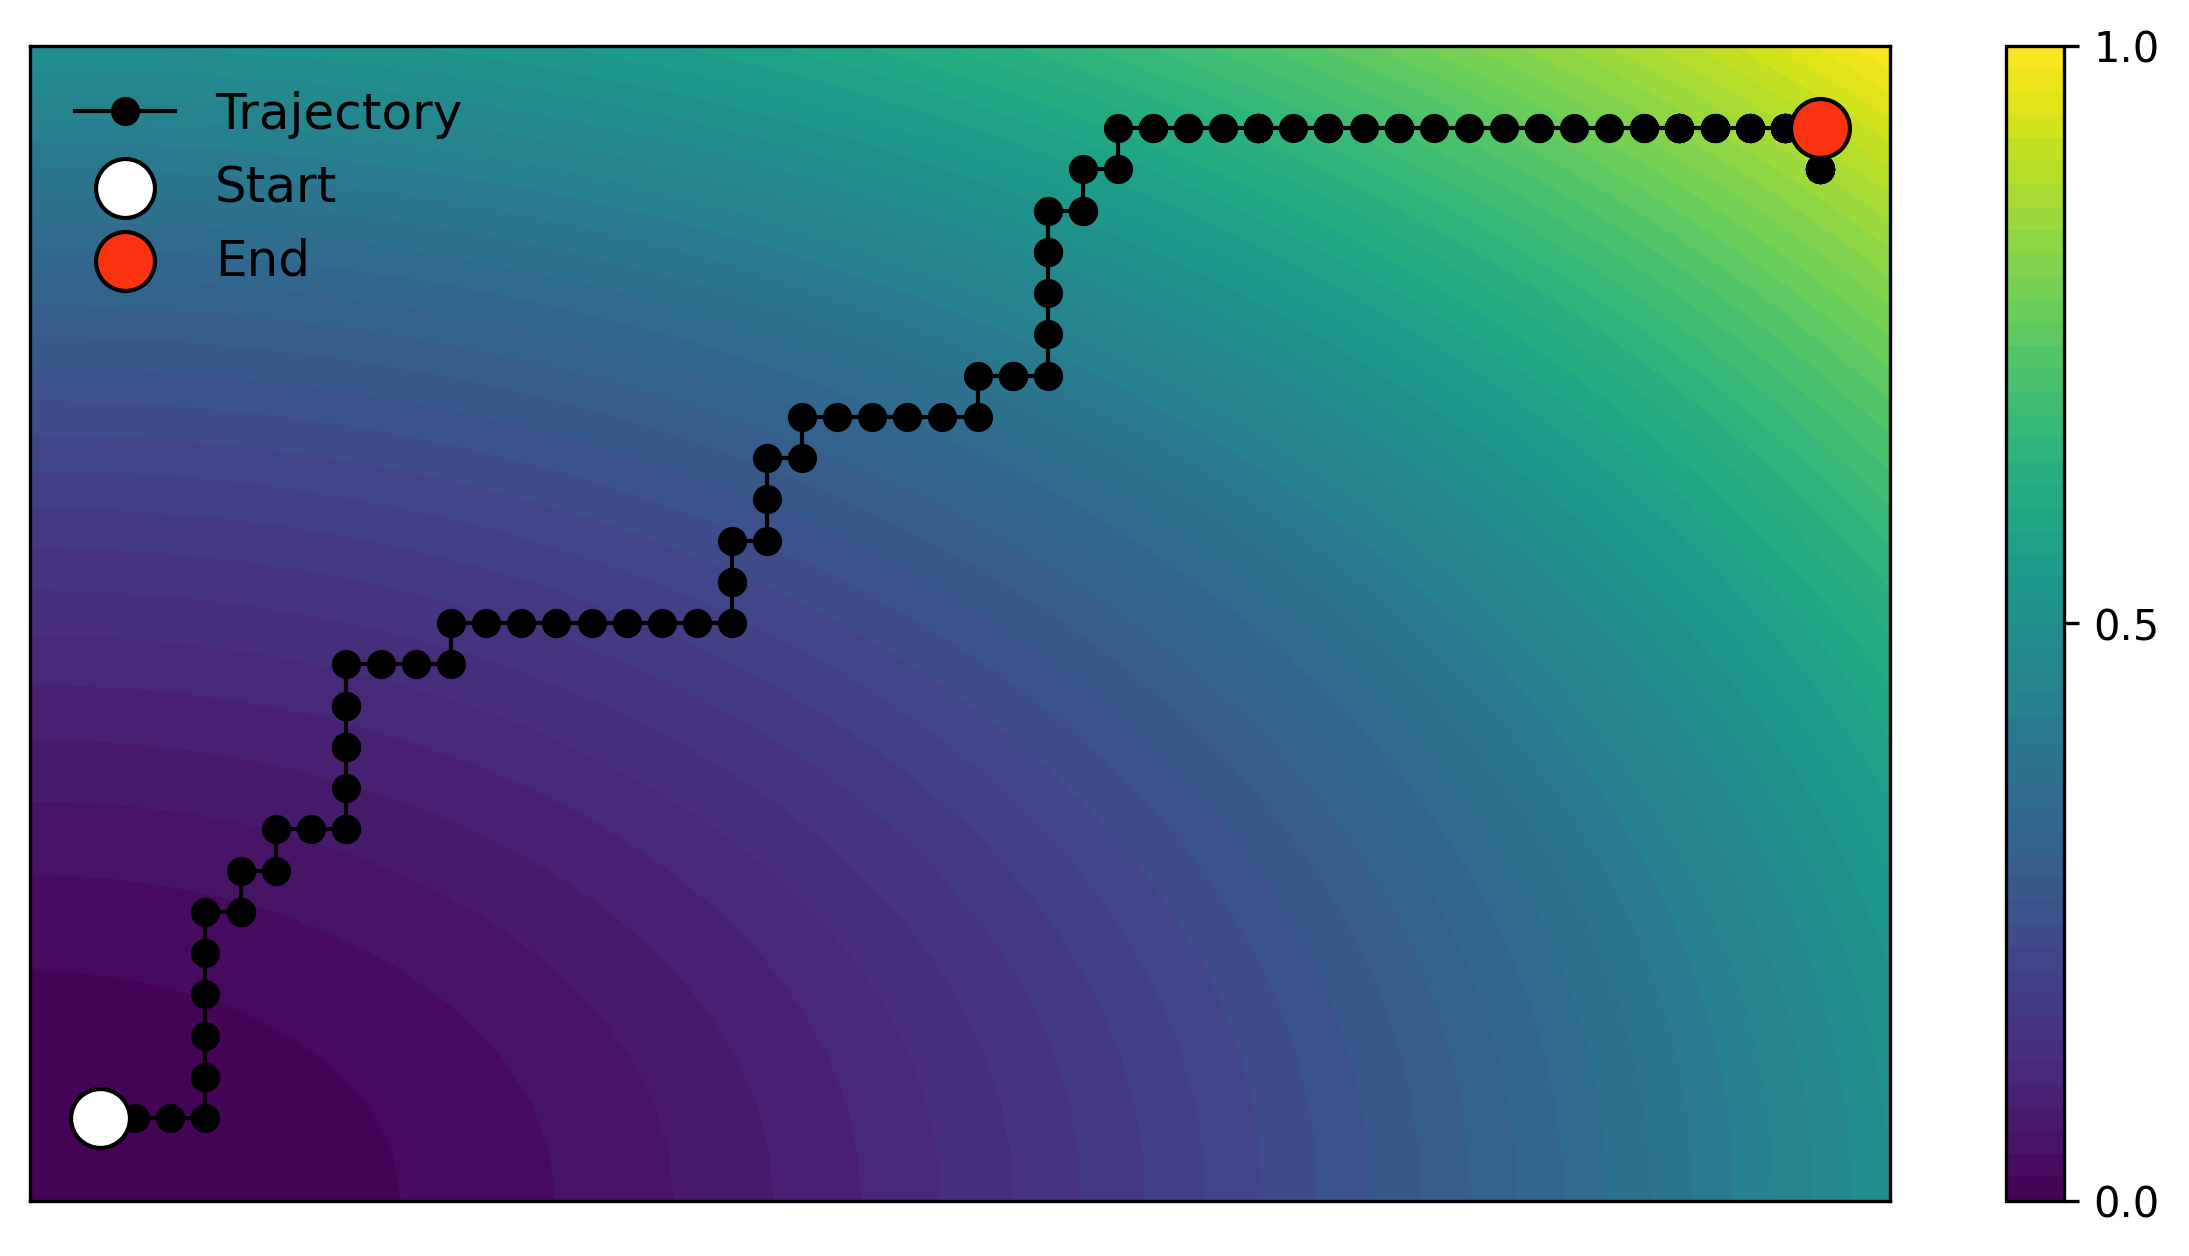
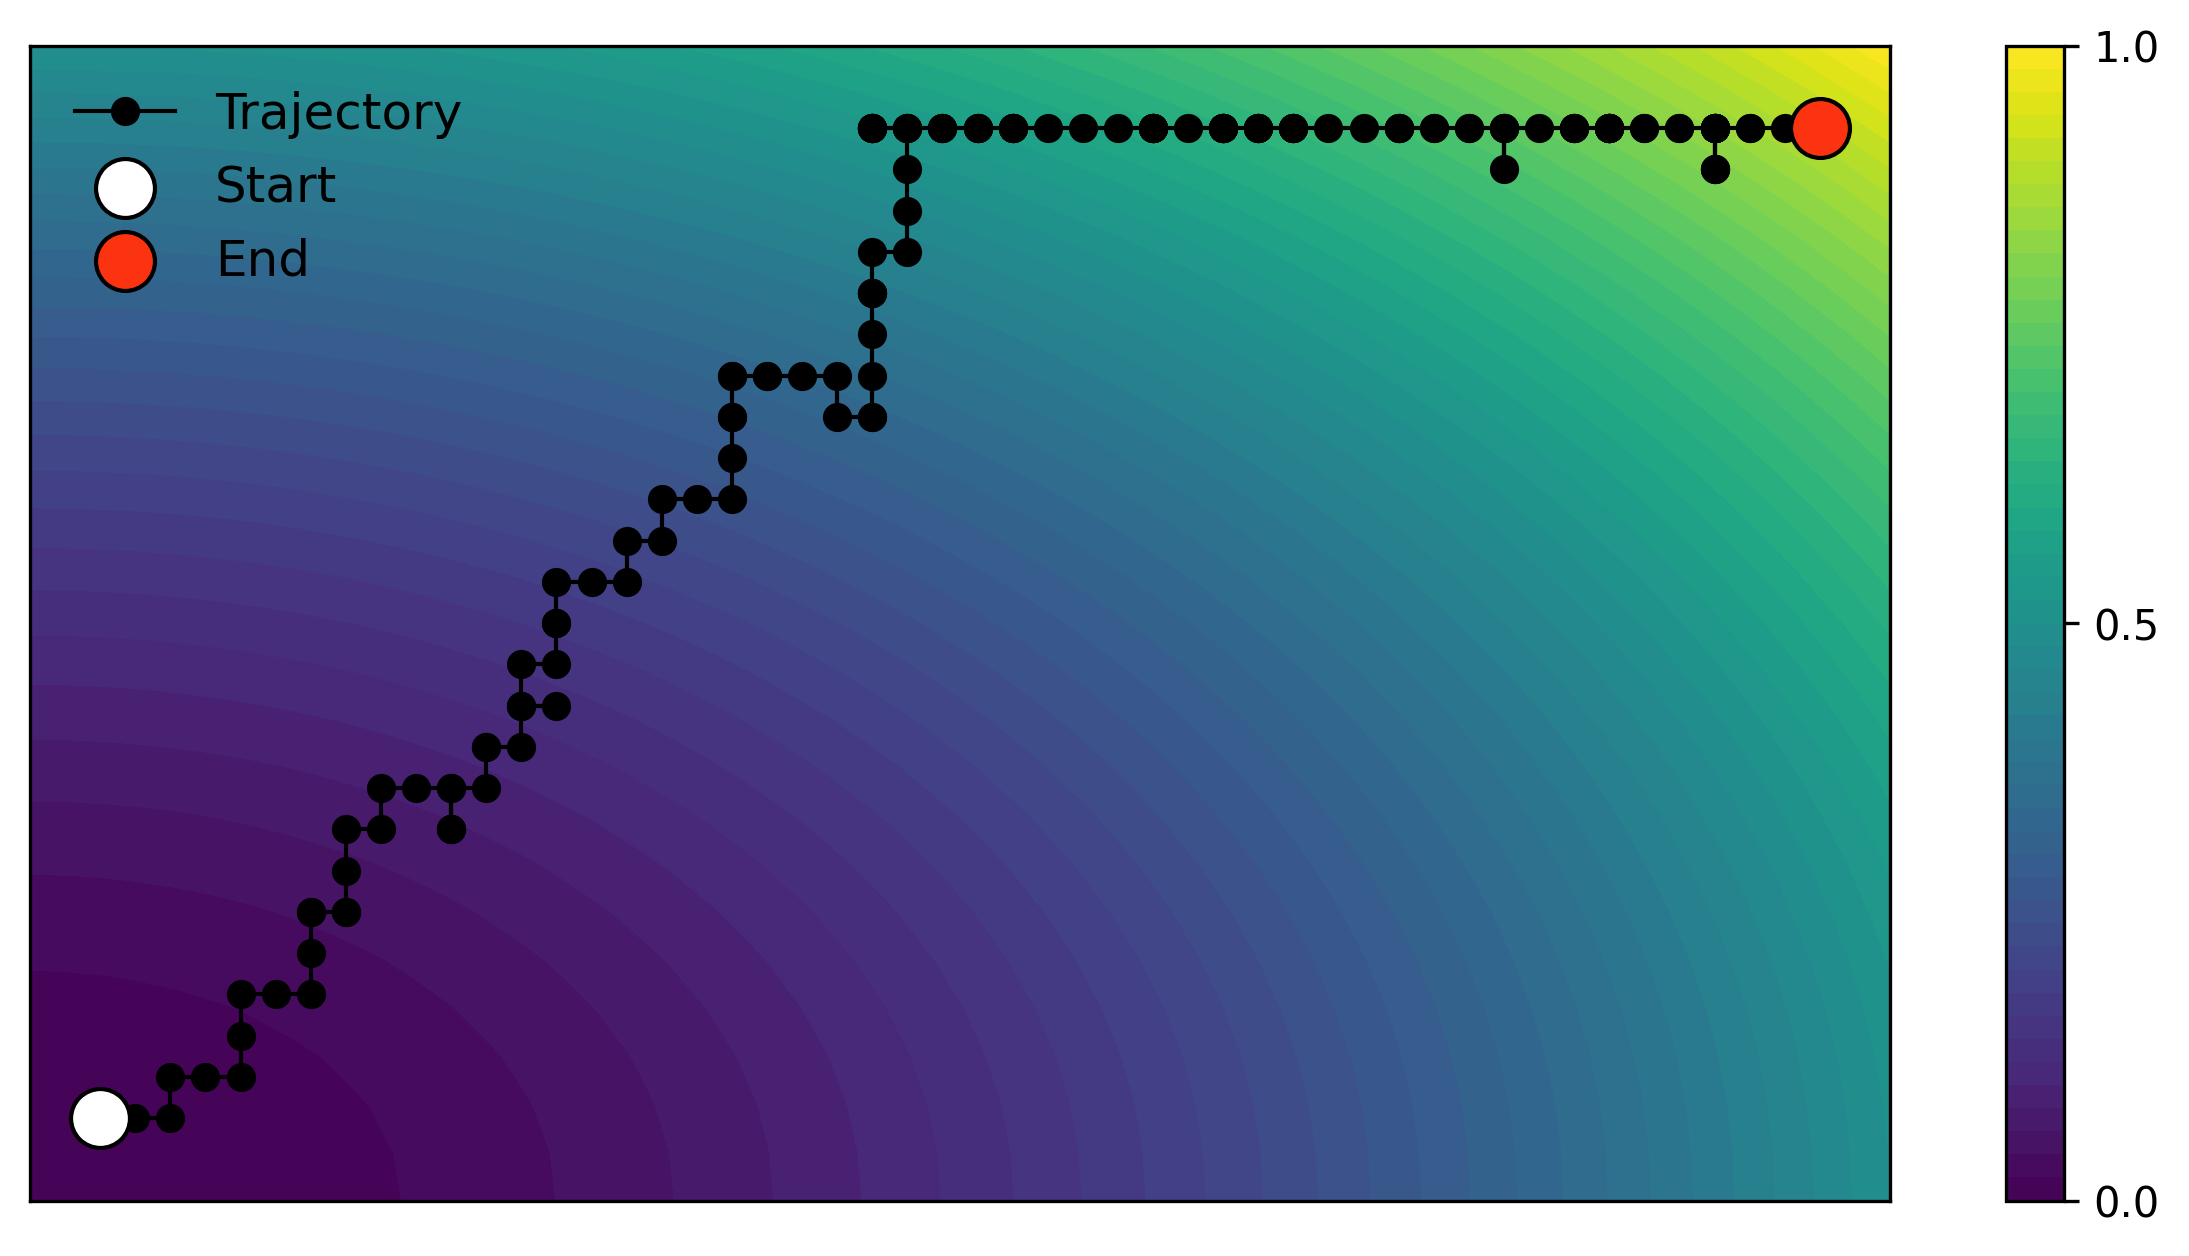
Site update

Changed region(s): [[0.0621, 0.0932, 0.5281, 0.9005], [0.7766, 0.1242, 0.8387, 0.1553], [0.6834, 0.1242, 0.7145, 0.1553]]

diff --git a/_posts/2025-07-30-policy-gradient-method.md b/_posts/2025-07-30-policy-gradient-method.md
@@ -38,21 +38,26 @@ The former is a much more powerful approach for practical engineering applicatio
 of real-world systems are often continuous—think of velocity, acceleration, torque, direction, temperature, etc.
 A single action can then immediately scale to the necessary magnitude, 
 instead of requiring several incremental actions to reach the same magnitude. 
-This concept is visualized in the figure below on the example of spatial navigation 
-toward a target—many less steps are required to reach the target if the agent is allowed 
-to move in the continuous space of (angle, direction) rather than a discrete space of (up, down, right, left).
+This concept is visualized in the two figures below on the example of spatial navigation 
+toward a target being the maximum in a scalar function. 
+Many less actions are required to reach the target if the agent is allowed 
+to move in the continuous space of (angle, direction) rather than a discrete space of (up, down, right, left, stay).
+Notice that the RL agent trained in the continuous action space first traverses the low scalar value region
+with larger step sizes, until it approaches the local maximum, where it starts to take finer steps.
 
 <p align="center">
   <img src="https://github.com/kamilazdybal/kamilazdybal.github.io/raw/main/_posts/discrete-action-space.png" width="500">
 </p>
 
-> Discrete action space
+> Discrete action space: Action is one of up, down, right, left, or stay. About 200 actions were needed to reach the
+> local maximum in the scalar value.
 
 <p align="center">
   <img src="https://github.com/kamilazdybal/kamilazdybal.github.io/raw/main/_posts/continuous-action-space.png" width="500">
 </p>
 
-> Continuous action space
+> Continuous action space: Action is a tuple composed of angle and step size. About 15 actions were needed to reach the
+> local maximum in the scalar value.
 
 In this post, I show you how to code **the policy gradient method** which allows an RL agent to navigate
 continuous action spaces by sampling them from learned probability distributions!
